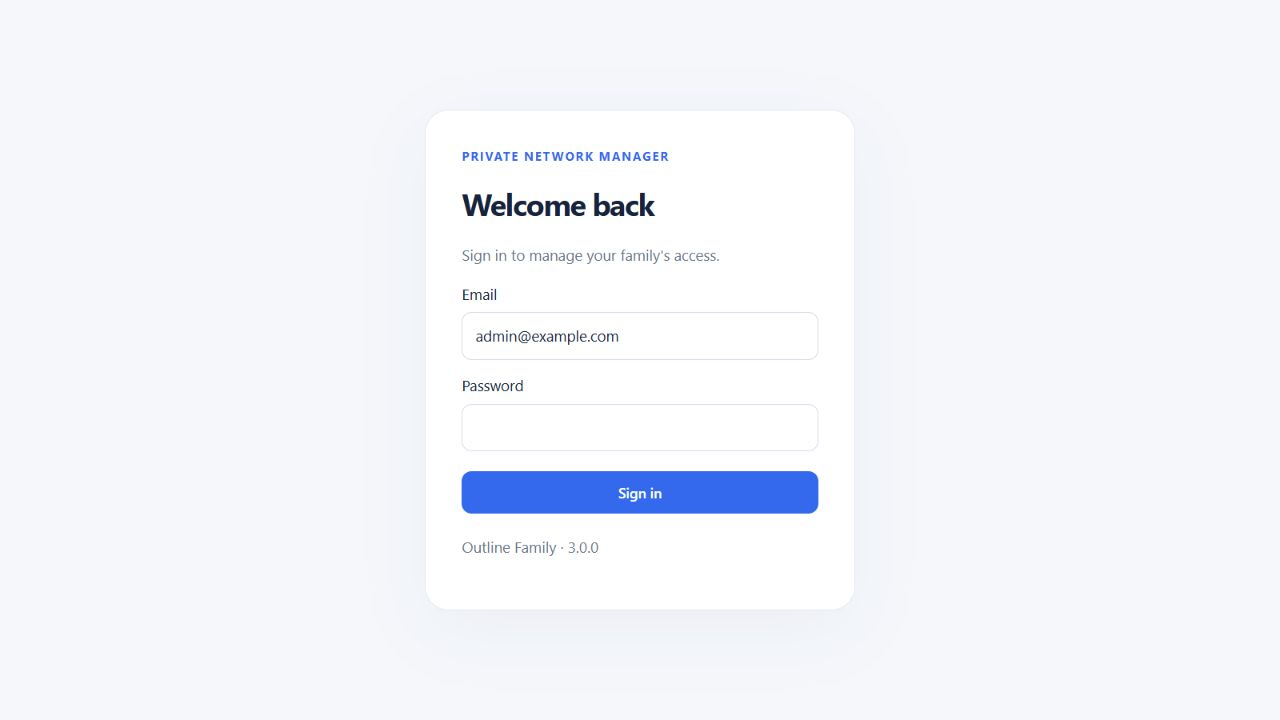
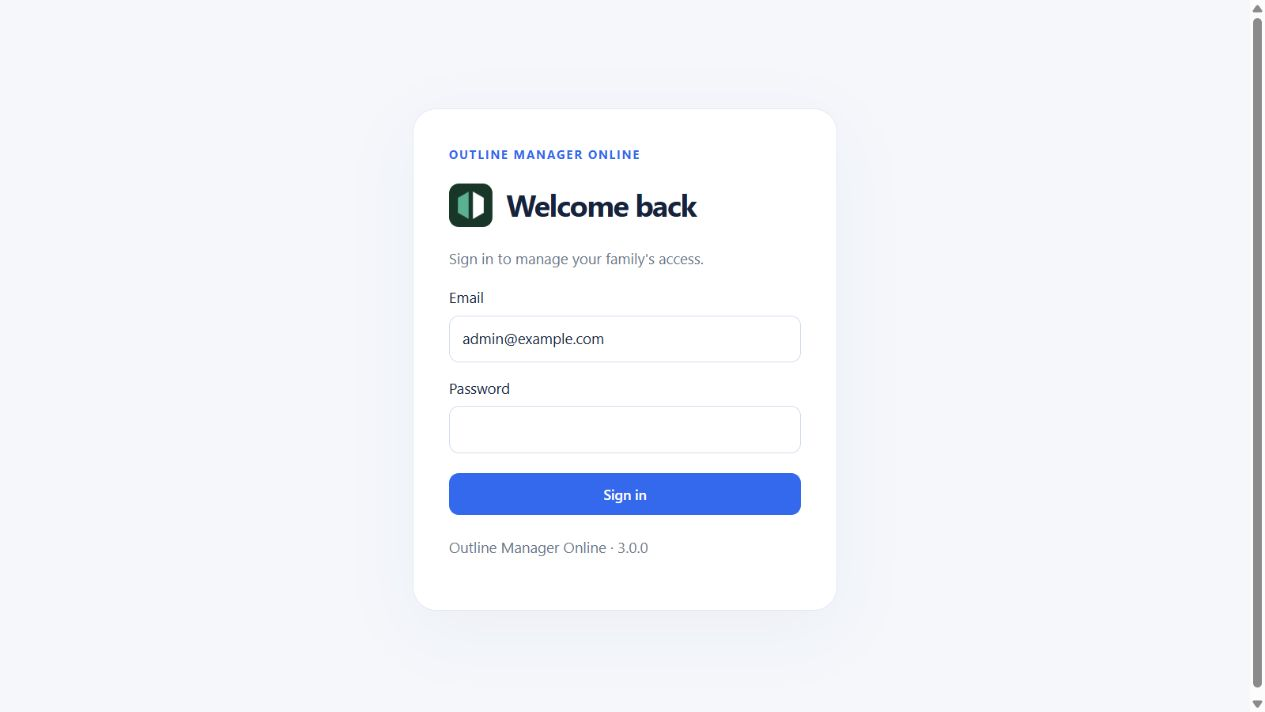
Compact key and account sections and add pinned standard Outline server management

diff --git a/remote_servers.py b/remote_servers.py
@@ -1,0 +1,166 @@
+"""Standard Outline servers, authenticated by the supplied certificate pin."""
+import http.client
+import ssl
+from urllib.parse import urlsplit, quote
+
+REMOTE_FILE = D / 'remote-servers.json'
+
+
+def remote_load():
+    try:
+        return json.loads(REMOTE_FILE.read_text(encoding='utf-8'))
+    except (OSError, ValueError):
+        return []
+
+
+def remote_save(servers):
+    temp = REMOTE_FILE.with_suffix('.tmp')
+    temp.write_text(json.dumps(servers), encoding='utf-8')
+    temp.chmod(0o600)
+    temp.replace(REMOTE_FILE)
+
+
+def remote_validate(raw):
+    config = json.loads(raw)
+    url = urlsplit(config['apiUrl'])
+    pin = config['certSha256'].lower()
+    if (url.scheme != 'https' or not url.hostname or url.username or url.password
+            or url.query or url.fragment or not url.path.strip('/')
+            or not re.fullmatch('[a-f0-9]{64}', pin)
+            or any(ord(c)<33 for c in config['apiUrl'])):
+        raise ValueError('Invalid connection details')
+    # Validate port now rather than letting a later request fail.
+    if not 1 <= (url.port or 443) <= 65535: raise ValueError('Invalid port')
+    return dict(apiUrl=config['apiUrl'].rstrip('/'), certSha256=pin)
+
+
+def remote_api(server, method, path, payload=None):
+    url = urlsplit(server['apiUrl'])
+    # Outline uses a self-signed certificate. Authenticate its exact DER digest
+    # BEFORE sending the secret API path or any request bytes.
+    context = ssl.SSLContext(ssl.PROTOCOL_TLS_CLIENT)
+    context.check_hostname = False
+    context.verify_mode = ssl.CERT_NONE
+    conn = http.client.HTTPSConnection(url.hostname, url.port or 443, timeout=4, context=context)
+    try:
+        conn.connect()
+        digest = hashlib.sha256(conn.sock.getpeercert(binary_form=True)).hexdigest()
+        if not hmac.compare_digest(digest, server['certSha256']):
+            raise ValueError('Certificate fingerprint does not match. No management request was sent.')
+        body = json.dumps(payload).encode() if payload is not None else None
+        conn.request(method, url.path.rstrip('/')+path, body=body,
+                     headers={'Content-Type':'application/json','Connection':'close'})
+        response = conn.getresponse()
+        data = response.read(2_000_001)
+        if len(data)>2_000_000: raise ValueError('Server response is too large')
+        if not 200 <= response.status < 300:
+            raise ValueError('Outline server returned HTTP '+str(response.status)+'. Refresh before retrying changes.')
+        return json.loads(data) if data else {}
+    finally:
+        conn.close()
+
+
+def server_picker(selected='local'):
+    links = '<a class="server-choice'+(' selected' if selected=='local' else '')+'" href="/">This ZimaOS server</a>'
+    for server in remote_load():
+        links += '<a class="server-choice'+(' selected' if selected==server['id'] else '')+'" href="/remote?server='+server['id']+'">'+E(server['label'])+'</a>'
+    return '<div class="server-picker"><strong>Servers</strong>'+links+'<a class="server-choice" href="/#servers">+ Add server</a></div>'
+
+
+REMOTE_STYLE = '<style>.server-picker{display:flex;align-items:center;gap:8px;flex-wrap:wrap;margin:16px 0}.server-choice{padding:8px 12px;border:1px solid var(--line);border-radius:9px;background:white;font-size:13px}.server-choice.selected{background:#eaf1ff;border-color:#3468ed}textarea{width:100%;min-height:120px;border:1px solid var(--line);border-radius:10px;padding:12px;font:13px monospace;background:white;color:var(--ink)}.remote-actions{display:flex;gap:12px;flex-wrap:wrap}.remote-actions form{flex:1;min-width:200px}</style>'
+
+
+RemoteBaseH = H
+class H(RemoteBaseH):
+    def page(self, msg=''):
+        page = super().page(msg)
+        if not state.get('password') or not self.auth(): return page
+        page = page.replace('<nav>', server_picker()+'<nav>', 1)
+        return page+REMOTE_STYLE+'<details id="servers" class="section-card"><summary>Add a standard Outline server</summary><div class="section-body"><p>Paste the management connection JSON from Outline Manager or the server installer. This is not an ss:// access key.</p>'+form('/servers/add','<label>Display name<input name="label" maxlength="80" required></label><label>Connection JSON<textarea name="connection" autocomplete="off" spellcheck="false" placeholder=\'{"apiUrl":"https://…/secret","certSha256":"…"}\' required></textarea></label><button>Verify and add server</button>')+'<p>Connection details stay on this server and are not shown again. The certificate fingerprint must match. The remote management port must be reachable from ZimaOS.</p></div></details>'
+
+    def remote_page(self, server):
+        root = '/remote?server='+server['id']
+        page = STYLE+MODERN+REMOTE_STYLE+'<header><h1>Outline Manager Online</h1><a href="/">Local dashboard</a></header>'+server_picker(server['id'])
+        try:
+            info = remote_api(server,'GET','/server')
+            keys = remote_api(server,'GET','/access-keys').get('accessKeys',[])
+            try:
+                transfer = remote_api(server,'GET','/metrics/transfer').get('bytesTransferredByUserId',{})
+                usage_note = 'Transfer reported by this Outline server; it is not the local rolling history.'
+            except Exception:
+                transfer = {}; usage_note = 'Transfer metrics currently unavailable.'
+            page += '<h2>'+E(info.get('name',server['label']))+'</h2><p class="muted">Standard Outline · '+E(info.get('version',''))+' · '+str(len(keys))+' keys</p><p class="muted">'+usage_note+'</p>'
+            hidden = '<input type="hidden" name="server" value="'+server['id']+'">'
+            page += form('/remote/action',hidden+'<input type="hidden" name="action" value="create"><input name="name" placeholder="New key name" maxlength="60" required><button>Create key</button>')
+            for key in keys:
+                uid = str(key['id'])
+                cap = key.get('dataLimit', info.get('accessKeyDataLimit',{})).get('bytes')
+                base = hidden+'<input type="hidden" name="id" value="'+E(uid)+'">'
+                page += '<details class="key-card"><summary class="key-summary"><span class="key-name">'+E(key.get('name') or 'Key '+uid)+'</span><span class="key-transfer">'+(human(transfer[uid]) if uid in transfer else '—')+' / '+('Unlimited' if cap is None else human(cap))+'</span><span class="pill">Outline</span></summary><div class="key-body"><p>Key ID: '+E(uid)+' · Port: '+E(key.get('port',''))+'</p><details><summary>Share · access link</summary><code id="remote-'+E(uid)+'">'+E(key.get('accessUrl',''))+'</code><button type="button" data-copy="remote-'+E(uid)+'" onclick="copyKey(this.dataset.copy)">Copy access key</button></details><div class="remote-actions">'
+                page += form('/remote/action',base+'<input type="hidden" name="action" value="rename"><label>Name<input name="name" value="'+E(key.get('name',''))+'" maxlength="60" required></label><button>Rename</button>')
+                page += form('/remote/action',base+'<input type="hidden" name="action" value="limit"><label>Limit (GiB)<input name="limit" type="number" min="0" max="1000000" step="0.01" value="'+('' if cap is None else str(cap/1073741824))+'" placeholder="Blank removes individual limit"></label><button>Save limit</button>')
+                page += '</div><details><summary>Delete key permanently</summary><p>This revokes the key and cannot be restored from this panel.</p>'+form('/remote/action',base+'<input type="hidden" name="action" value="delete"><label><input type="checkbox" name="confirm" value="yes" required> Confirm permanent deletion</label><button>Delete permanently</button>')+'</details></div></details>'
+            page += '<details class="section-card"><summary>Remote server settings</summary><div class="section-body">'
+            page += form('/remote/action',hidden+'<input type="hidden" name="action" value="server-name"><label>Server name<input name="name" value="'+E(info.get('name',''))+'" maxlength="80" required></label><button>Save server name</button>')
+            cap = info.get('accessKeyDataLimit',{}).get('bytes')
+            page += form('/remote/action',hidden+'<input type="hidden" name="action" value="default-limit"><label>Default per-key limit (GiB)<input name="limit" type="number" min="0" max="1000000" step="0.01" value="'+('' if cap is None else str(cap/1073741824))+'" placeholder="Blank removes default"></label><button>Save default</button>')+'</div></details>'
+        except Exception as error:
+            message = str(error) if isinstance(error,ValueError) else 'Cannot reach this server. Verify its address, management port and certificate fingerprint.'
+            page += '<p class="error">'+E(message)+'</p><a href="'+root+'">Retry connection</a>'
+        page += '<details class="section-card"><summary>Remove from this panel</summary><div class="section-body"><p>This only forgets the connection. The server and its keys keep running.</p>'+form('/servers/remove','<input type="hidden" name="server" value="'+server['id']+'"><button>Forget server connection</button>')+'</div></details>'+SCRIPT
+        return page
+
+    def do_GET(self):
+        if self.path.split('?',1)[0] != '/remote': return super().do_GET()
+        if self.server.server_port != 9000 or not self.auth(): return self.redirect(path='/')
+        sid = parse_qs(urlsplit(self.path).query).get('server',[''])[0]
+        server = next((s for s in remote_load() if s['id']==sid),None)
+        return self.send(200,self.remote_page(server)) if server else self.send(404,'Unknown server','text/plain')
+
+    def do_POST(self):
+        if self.path not in ('/servers/add','/servers/remove','/remote/action'): return super().do_POST()
+        host = self.headers.get('Host','').lower()
+        if self.server.server_port!=9000 or not self.auth() or host not in (globals().get('LOCAL_ADMIN_HOST','localhost:18082'),'localhost:18082','127.0.0.1:18082',ADMIN_HOST):
+            return self.send(403,'Forbidden','text/plain')
+        if host==ADMIN_HOST and self.headers.get('X-Forwarded-Proto','').lower()!='https':
+            return self.send(403,'Use HTTPS','text/plain')
+        try:
+            size = int(self.headers.get('Content-Length','0'))
+            if not 0<size<=8192: raise ValueError('Invalid form')
+            fields = parse_qs(self.rfile.read(size).decode(),keep_blank_values=True)
+            v = lambda key: fields.get(key,[''])[0]
+            if not hmac.compare_digest(v('csrf'),csrf): raise ValueError('Form expired; reload the page.')
+            servers = remote_load()
+            if self.path=='/servers/add':
+                config = remote_validate(v('connection'))
+                label = v('label').strip()
+                if not 1<=len(label)<=80: raise ValueError('Enter a display name')
+                remote_api(config,'GET','/server')
+                config.update(id=secrets.token_hex(8),label=label)
+                with lock:
+                    servers = remote_load()
+                    if any(s['apiUrl']==config['apiUrl'] for s in servers): raise ValueError('This server is already added')
+                    servers.append(config); remote_save(servers)
+                return self.redirect(path='/remote?server='+config['id'])
+            server = next((s for s in servers if s['id']==v('server')),None)
+            if not server: raise ValueError('Unknown server')
+            if self.path=='/servers/remove':
+                with lock: remote_save([s for s in remote_load() if s['id']!=server['id']])
+                return self.redirect(path='/#servers')
+            action = v('action')
+            key_path = '/access-keys/'+quote(v('id'),safe='')
+            if action in ('create','rename','server-name'):
+                name = v('name').strip()
+                if not 1<=len(name)<=80: raise ValueError('Enter a valid name')
+                remote_api(server,'POST' if action=='create' else 'PUT', '/access-keys' if action=='create' else ('/name' if action=='server-name' else key_path+'/name'),dict(name=name))
+            elif action in ('limit','default-limit'):
+                path = '/server/access-key-data-limit' if action=='default-limit' else key_path+'/data-limit'
+                cap = gib(v('limit')) if v('limit').strip() else None
+                remote_api(server,'DELETE' if cap is None else 'PUT',path, None if cap is None else dict(limit=dict(bytes=cap)))
+            elif action=='delete' and v('confirm')=='yes': remote_api(server,'DELETE',key_path)
+            else: raise ValueError('Invalid operation')
+            return self.redirect(path='/remote?server='+server['id'])
+        except Exception as error:
+            message = str(error) if isinstance(error,ValueError) and not isinstance(error,json.JSONDecodeError) else 'Operation did not complete. Check connection details and refresh the server before retrying.'
+            # Do not echo connection JSON, response bodies or URLs containing API secrets.
+            return self.send(400,STYLE+MODERN+'<p class="error">'+E(message)+'</p><a href="/">Back to dashboard</a>')

diff --git a/upgrade.py b/upgrade.py
@@ -149,7 +149,7 @@ class H(BaseH):
             uid, cap = u['id'], limit(u)
             a,b = usage(uid)
             status = 'Enabled' if allowed(u) else ('Disabled' if not u['enabled'] else 'Data limit reached')
-            s += '<article><header><h2>'+E(u['name'])+'</h2><span class="pill">'+status+'</span></header><small>Key ID: '+uid+'</small><p>30-day transfer: <b>'+human(a+b)+'</b> · Upload '+human(a)+' · Download '+human(b)+'</p>'
+            s += '<details class="key-card"><summary class="key-summary"><span class="key-name">'+E(u['name'])+'</span><span class="key-transfer">'+human(a+b)+' / '+('Unlimited' if cap is None else human(cap))+'</span><span class="pill">'+status+'</span></summary><div class="key-body"><small>Key ID: '+uid+'</small><p>30-day transfer: <b>'+human(a+b)+'</b> · Upload '+human(a)+' · Download '+human(b)+'</p>'
             if cap is not None:
                 s += '<progress value="'+str(min(a+b,cap))+'" max="'+str(max(1,cap))+'"></progress><p>Limit: '+human(cap)+' / rolling 30 days</p>'
             else:
@@ -159,14 +159,15 @@ class H(BaseH):
             mode = 'default' if 'limit' not in u else ('unlimited' if u['limit'] is None else 'custom')
             options = ''.join('<option value="'+v+'"'+(' selected' if mode==v else '')+'>'+label+'</option>' for v,label in [('default','Use server default'),('custom','Custom limit'),('unlimited','Unlimited')])
             value = str(u['limit']/1073741824) if u.get('limit') is not None else ''
-            s += '<details><summary>Edit name and data limit</summary>'+form('/edit','<input type="hidden" name="id" value="'+uid+'"><label>Name <input name="name" value="'+E(u['name'])+'" maxlength="60" required></label><select name="mode">'+options+'</select><label>Limit GiB <input name="limit" type="number" min="0" step="0.01" value="'+value+'"></label><button>Save key</button>')+'</details><div class="row">'+action('Disable access' if u['enabled'] else 'Enable access','/toggle',uid)+action('Archive key','/archive',uid)+'</div></article>'
+            s += '<details><summary>Edit name and data limit</summary>'+form('/edit','<input type="hidden" name="id" value="'+uid+'"><label>Name <input name="name" value="'+E(u['name'])+'" maxlength="60" required></label><select name="mode">'+options+'</select><label>Limit GiB <input name="limit" type="number" min="0" step="0.01" value="'+value+'"></label><button>Save key</button>')+'</details><div class="row">'+action('Disable access' if u['enabled'] else 'Enable access','/toggle',uid)+action('Archive key','/archive',uid)+'</div></div></details>'
         archived = [u for u in state['users'] if u.get('archived')]
         if archived:
             s += '<details><summary>Archived keys</summary>'+''.join('<article>'+E(u['name'])+action('Restore (disabled)','/restore',u['id'])+'</article>' for u in archived)+'</details>'
         rows = db.execute("SELECT date(ts,'unixepoch'),SUM(up),SUM(down) FROM usage WHERE ts>? GROUP BY 1 ORDER BY 1 DESC", (int(time.time()-30*86400),)).fetchall()
-        s += '<h2 id="usage">Daily transfer · last 30 days (UTC)</h2><table><tr><th>Date</th><th>Upload</th><th>Download</th></tr>'+''.join('<tr><td>'+day+'</td><td>'+human(a)+'</td><td>'+human(b)+'</td></tr>' for day,a,b in rows)+('</table>' if rows else '<tr><td>No traffic measured yet.</td></tr></table>')
+        s += '<details class="section-card" id="usage"><summary>Daily transfer: last 30 days (UTC)</summary><div class="section-body"><table><tr><th>Date</th><th>Upload</th><th>Download</th></tr>'+''.join('<tr><td>'+day+'</td><td>'+human(a)+'</td><td>'+human(b)+'</td></tr>' for day,a,b in rows)+('</table>' if rows else '<tr><td>No traffic measured yet.</td></tr></table>')
+        s += '</div></details>'
         default = '' if state['default_limit'] is None else str(state['default_limit']/1073741824)
-        s += '<h2 id="settings">Server settings</h2><article>'+form('/settings','<label>Server name <input name="name" value="'+E(state['server_name'])+'" maxlength="80" required></label><label>Default limit per key (GiB) <input type="number" name="limit" min="0" step="0.01" value="'+default+'" placeholder="Unlimited"></label><button>Save settings</button>')+'<p>Blank default = unlimited. Each key has its own rolling 30-day allowance.</p><p>Hostname: '+DOMAIN+'<br>Public port: 443 / WSS<br>Outline engine: 1.9.2 · Panel: '+VERSION+'<br>Metrics: '+('Collecting' if metrics_ok else 'Waiting / unavailable')+'</p><p>This WebSocket deployment shares port 443; changing per-key ports is not applicable. Routes remain in Cloudflare. No anonymous usage reporting is enabled.</p><p>Archive revokes access and keeps a recoverable record. Backup includes access credentials; keep it private.</p></article>'+form('/logout','<button>Sign out</button>')
+        s += '<details class="section-card" id="settings"><summary>Server settings</summary><div class="section-body">'+form('/settings','<label>Server name <input name="name" value="'+E(state['server_name'])+'" maxlength="80" required></label><label>Default limit per key (GiB) <input type="number" name="limit" min="0" step="0.01" value="'+default+'" placeholder="Unlimited"></label><button>Save settings</button>')+'<p>Blank default = unlimited. Each key has its own rolling 30-day allowance.</p><p>Hostname: '+DOMAIN+'<br>Public port: 443 / WSS<br>Outline engine: 1.9.2 · Panel: '+VERSION+'<br>Metrics: '+('Collecting' if metrics_ok else 'Waiting / unavailable')+'</p><p>This WebSocket deployment shares port 443; changing per-key ports is not applicable. Routes remain in Cloudflare. No anonymous usage reporting is enabled.</p><p>Archive revokes access and keeps a recoverable record. Backup includes access credentials; keep it private.</p></div></details>'+form('/logout','<button>Sign out</button>')
         return s
 
     def do_GET(self):
@@ -288,7 +289,7 @@ class H(H2):
             return STYLE+MODERN+'<main class="login"><div class="eyebrow">Outline Manager Online</div><h1>Welcome back</h1><p class="muted">Sign in to manage your family\'s access.</p>'+message+form('/login','<label>Email<input type="email" name="email" autocomplete="username" value="'+E(state['admin_email'])+'" required></label><label>Password<input type="password" name="password" autocomplete="current-password" required></label><button>Sign in</button>')+'<p class="muted">Outline Manager Online · '+VERSION+'</p></main>'
         page=super().page(msg)+MODERN
         page=page.replace('<a href="/backup">','<a href="/#account">Account</a><a href="/backup">')
-        account='<h2 id="account">Your account</h2><article><p class="muted">Remote administration: https://'+ADMIN_HOST+'</p><div class="account-grid"><section><h2>Sign-in email</h2>'+form('/account-email','<label>Email<input type="email" name="email" value="'+E(state['admin_email'])+'" autocomplete="username" required></label><label>Current password<input type="password" name="current_password" autocomplete="current-password" required></label><button>Update email</button>')+'</section><section><h2>Change password</h2>'+form('/account-password','<label>Current password<input type="password" name="current_password" autocomplete="current-password" required></label><label>New password<input type="password" name="new_password" minlength="8" autocomplete="new-password" required></label><label>Confirm new password<input type="password" name="confirm_password" minlength="8" autocomplete="new-password" required></label><button>Change password</button>')+'<p class="muted">At least 8 characters. Updating your account signs out all sessions.</p></section></div></article>'
+        account='<details class="section-card" id="account"><summary>Your account: email and password</summary><div class="section-body"><p class="muted">Remote administration: https://'+ADMIN_HOST+'</p><div class="account-grid"><section><h2>Sign-in email</h2>'+form('/account-email','<label>Email<input type="email" name="email" value="'+E(state['admin_email'])+'" autocomplete="username" required></label><label>Current password<input type="password" name="current_password" autocomplete="current-password" required></label><button>Update email</button>')+'</section><section><h2>Change password</h2>'+form('/account-password','<label>Current password<input type="password" name="current_password" autocomplete="current-password" required></label><label>New password<input type="password" name="new_password" minlength="8" autocomplete="new-password" required></label><label>Confirm new password<input type="password" name="confirm_password" minlength="8" autocomplete="new-password" required></label><button>Change password</button>')+'<p class="muted">At least 8 characters. Updating your account signs out all sessions.</p></section></div></div></details>'
         return page+account
 
     def do_GET(self):
@@ -397,3 +398,11 @@ if not _telegram_module.exists():
     _telegram_module = Path(__file__).with_name('telegram_bot.py')
 if _telegram_module.exists():
     exec(compile(_telegram_module.read_text(encoding='utf-8'), str(_telegram_module), 'exec'))
+
+MODERN += '<style>.key-card{background:white;border:1px solid var(--line);border-radius:12px;margin:7px 0;padding:0;overflow:hidden}.key-summary{display:flex;align-items:center;gap:14px;padding:13px 16px;list-style:none;min-height:56px}.key-summary::before{content:"\\203a";font-size:23px;color:var(--muted);transition:transform .15s}.key-card[open]>.key-summary::before{transform:rotate(90deg)}.key-summary::-webkit-details-marker{display:none}.key-name{font-weight:700;flex:1;min-width:0;overflow-wrap:anywhere}.key-transfer{font-size:12px;color:var(--muted);font-weight:400}.key-body{border-top:1px solid var(--line);padding:16px 20px}.key-body p{margin:8px 0}.key-body details{margin-top:8px}.section-card{background:#fff;border:1px solid var(--line);border-radius:14px;padding:0;margin:20px 0}.section-card>summary{padding:18px 22px}.section-body{border-top:1px solid var(--line);padding:22px}.section-body h2{font-size:18px}@media(max-width:600px){.key-summary{gap:8px;flex-wrap:wrap}.key-transfer{order:3;width:100%;padding-left:22px}.key-summary .pill{font-size:10px}.key-body{padding:12px}.section-body{padding:16px}}</style>'
+
+_remote_module = D / 'remote_servers.py'
+if not _remote_module.exists():
+    _remote_module = Path(__file__).with_name('remote_servers.py')
+if _remote_module.exists():
+    exec(compile(_remote_module.read_text(encoding='utf-8'), str(_remote_module), 'exec'))

diff --git a/test_remote_servers.py b/test_remote_servers.py
@@ -1,0 +1,91 @@
+import hashlib
+import hmac
+import html
+import json
+import re
+import secrets
+import tempfile
+import threading
+import unittest
+from pathlib import Path
+from unittest.mock import Mock, patch
+from urllib.parse import parse_qs
+
+
+class RemoteServerTests(unittest.TestCase):
+    def setUp(self):
+        self.temp = tempfile.TemporaryDirectory()
+        self.env = dict(D=Path(self.temp.name), Path=Path, json=json, re=re,
+            hashlib=hashlib, hmac=hmac, secrets=secrets, lock=threading.RLock(),
+            H=type('Base',(),{}), E=lambda x: html.escape(str(x),quote=True),
+            state={'password':'hash'}, STYLE='', MODERN='', SCRIPT='',
+            ADMIN_HOST='panel.example.com', parse_qs=parse_qs,
+            form=lambda path,body:'<form method="post" action="'+path+'">'+body+'</form>',
+            human=lambda n:str(n))
+        exec(compile(Path(__file__).with_name('remote_servers.py').read_text(encoding='utf-8'),'remote_servers.py','exec'),self.env)
+        self.config = dict(apiUrl='https://server.example:1234/SECRET', certSha256=hashlib.sha256(b'certificate').hexdigest())
+
+    def tearDown(self): self.temp.cleanup()
+
+    def test_connection_requires_https_pin_and_secret_path(self):
+        for config in [dict(self.config,apiUrl='http://server.example/SECRET'),
+                       dict(self.config,certSha256='bad'),
+                       dict(self.config,apiUrl='https://server.example/'),
+                       dict(self.config,apiUrl='https://user:pass@server.example/SECRET'),
+                       dict(self.config,apiUrl='https://server.example/SECRET?token=bad')]:
+            with self.assertRaises(ValueError): self.env['remote_validate'](json.dumps(config))
+        self.assertEqual(self.env['remote_validate'](json.dumps(self.config)),self.config)
+
+    def test_pin_is_checked_before_api_secret_is_sent(self):
+        connection = Mock()
+        connection.sock.getpeercert.return_value = b'wrong certificate'
+        with patch('http.client.HTTPSConnection',return_value=connection):
+            with self.assertRaises(ValueError): self.env['remote_api'](self.config,'GET','/server')
+        connection.request.assert_not_called()
+        connection.close.assert_called_once()
+
+    def test_matching_pin_allows_exact_endpoint(self):
+        connection = Mock()
+        connection.sock.getpeercert.return_value = b'certificate'
+        response = connection.getresponse.return_value
+        response.status = 200; response.read.return_value = b'{"name":"Test"}'
+        with patch('http.client.HTTPSConnection',return_value=connection):
+            result=self.env['remote_api'](self.config,'GET','/server')
+        self.assertEqual(result['name'],'Test')
+        self.assertEqual(connection.request.call_args.args[:2],('GET','/SECRET/server'))
+
+    def test_redirects_are_not_followed(self):
+        connection = Mock();connection.sock.getpeercert.return_value=b'certificate'
+        response=connection.getresponse.return_value;response.status=302;response.read.return_value=b''
+        with patch('http.client.HTTPSConnection',return_value=connection):
+            with self.assertRaises(ValueError):self.env['remote_api'](self.config,'GET','/server')
+        self.assertEqual(connection.request.call_count,1)
+
+    def test_picker_does_not_leak_connection_credentials(self):
+        self.env['remote_save']([dict(self.config,id='abc',label='<My server>')])
+        picker=self.env['server_picker']()
+        self.assertNotIn('SECRET',picker)
+        self.assertNotIn(self.config['certSha256'],picker)
+        self.assertIn('&lt;My server&gt;',picker)
+
+    def test_remote_keys_are_collapsed_and_delete_needs_confirmation(self):
+        self.env['remote_api']=Mock(side_effect=[{'name':'Demo'}, {'accessKeys':[{'id':'0','name':'Alice','accessUrl':'ss://demo'}]}, {'bytesTransferredByUserId':{'0':100}}])
+        handler=self.env['H']()
+        page=handler.remote_page(dict(self.config,id='abc',label='Demo'))
+        self.assertIn('<details class="key-card">',page)
+        self.assertNotIn('<details class="key-card" open',page)
+        self.assertIn('name="confirm" value="yes" required',page)
+        self.assertNotIn('SECRET',page)
+
+    def test_new_endpoints_reject_unauthenticated_posts(self):
+        handler=self.env['H']();handler.path='/servers/add'
+        handler.headers={'Host':'panel.example.com','X-Forwarded-Proto':'https'}
+        handler.server=type('Server',(),{'server_port':9000})()
+        handler.auth=lambda:False;handler.send=Mock()
+        self.env['remote_api']=Mock()
+        handler.do_POST()
+        self.assertEqual(handler.send.call_args.args[0],403)
+        self.env['remote_api'].assert_not_called()
+
+
+if __name__=='__main__':unittest.main()

diff --git a/README.md b/README.md
@@ -22,6 +22,16 @@ These are screenshots of the actual application rendered with **demo data**. The
 - Per-key limits and a default allowance applied independently to each key.
 - Server status, recent key activity, and a downloadable credential backup.
 - Separate VPN gateway and admin endpoints; configurable public hostnames.
+- Compact expandable key rows and collapsed account, server-settings and usage sections.
+- A server switcher and management for additional standard Outline servers.
+
+## Additional standard Outline servers
+
+Open **+ Add server**, choose a display name and paste the management JSON containing `apiUrl` and `certSha256` from the standard Outline installer or Manager. This is a management credential, not an `ss://` client access key. The panel verifies the exact SHA-256 certificate fingerprint before sending the secret API path and verifies connectivity before saving. ZimaOS must be able to reach that server's management port. No new Cloudflare route is required for this panel.
+
+Each imported server has its own compact key list, access-link sharing, key creation/renaming, per-key/default data limits and server name. Standard Outline key deletion is permanent and requires checking an explicit confirmation; it does not use the local server's recoverable archive model. Remote metrics are displayed as reported by that server and are not merged into the local SQLite history. Forgetting a server only removes its saved connection and leaves its keys running. The Telegram bot continues to manage the local ZimaOS engine.
+
+Imported credentials are stored in `remote-servers.json` in the persistent directory, excluded from Git and from the panel's downloadable local-state backup. Include it only in a protected full filesystem backup. Connection JSON is never rendered back into the panel. Existing installation credentials are supplied by the administrator; this feature does not provision a new VPS.
 
 ## Requirements
 
